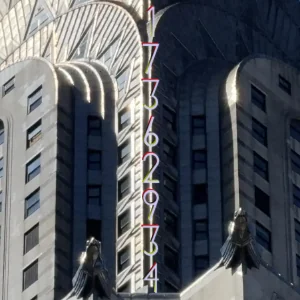
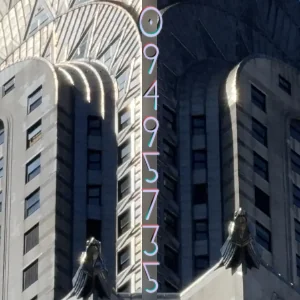
m

Changed region(s): [[0.45, 0.0, 0.57, 1.0]]

diff --git a/src/pages/2026/26-07/26-07-20/Clock.tsx b/src/pages/2026/26-07/26-07-20/Clock.tsx
@@ -33,6 +33,19 @@ const DigitalClock: React.FC = () => {
   return (
     <div className={styles.container}>
       <div className={styles.videoOverlay} />
+      <div
+        style={{
+          position: 'absolute',
+          top: 0,
+          left: '50%',
+          transform: 'translateX(-50%)',
+          width: '5vw',
+          height: '100dvh',
+          backdropFilter: 'blur(8px)',
+          WebkitBackdropFilter: 'blur(8px)', // For Safari support
+          zIndex: 2,
+        }}
+      />
       <img src={decoImage} alt="" className={styles.backgroundImage} />
       <time dateTime={isoTime} className={styles.timeWrapper}>
         <div className={styles.digitalTime}>
